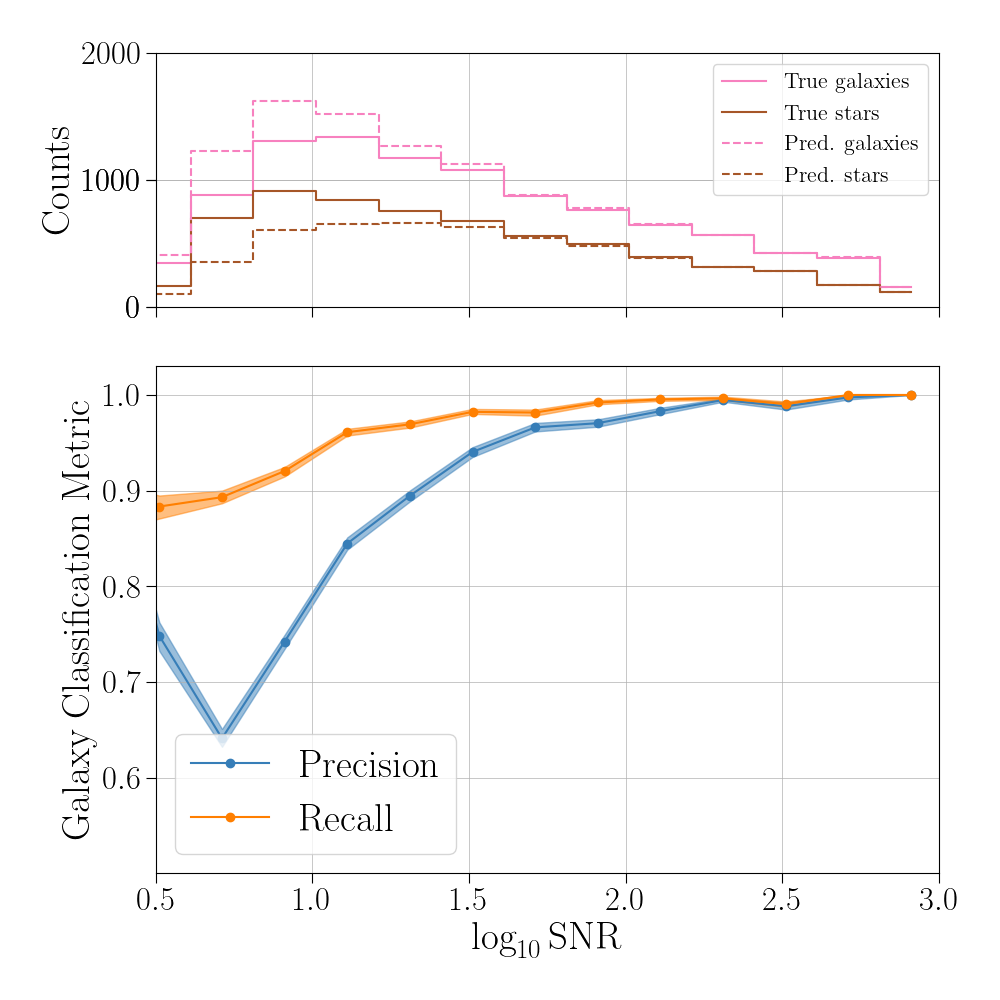
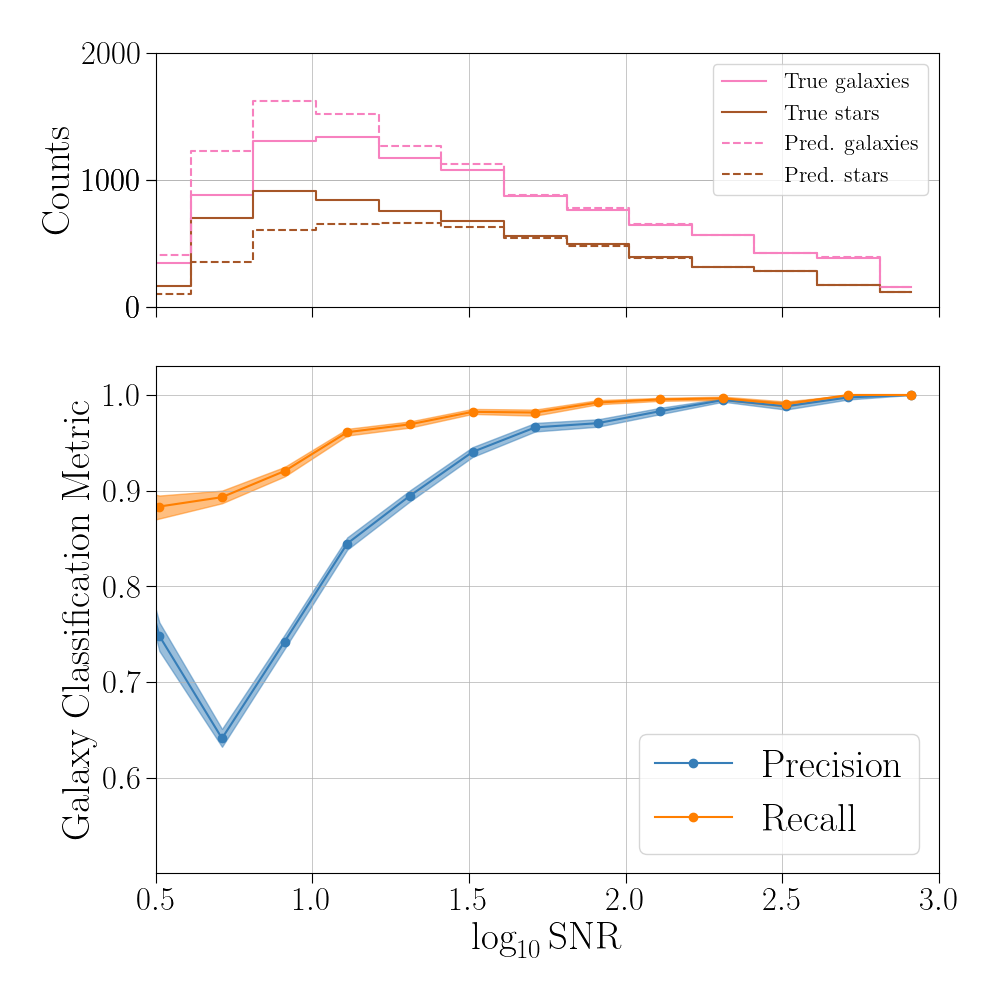
update legend

diff --git a/bliss/plotting.py b/bliss/plotting.py
@@ -52,6 +52,7 @@ def set_rc_params(
     major_tick_width=0.8,
     minor_tick_width=0.6,
     lines_marker_size=8,
+    legend_loc="best",
 ):
     # named size options: 'xx-small', 'x-small', 'small', 'medium', 'large', 'x-large', 'xx-large'.
     rc_params = {
@@ -82,6 +83,7 @@ def set_rc_params(
         "lines.markersize": lines_marker_size,
         # legend
         "legend.fontsize": legend_fontsize,
+        "legend.loc": legend_loc,
         # colors
         "axes.prop_cycle": mpl.cycler(color=CB_color_cycle),
         # images

diff --git a/case_studies/galsim_galaxies/get_figures.py b/case_studies/galsim_galaxies/get_figures.py
@@ -114,7 +114,7 @@ def _make_pr_figure(
     ax2.plot(bins, recall, "-o", color=c2, label=r"\rm Recall", markersize=6)
     ax2.fill_between(bins, recall1, recall2, color=c2, alpha=0.5)
 
-    ax2.legend(loc="lower left")
+    ax2.legend()
     ax2.set_xlabel(xlabel)
     ax2.set_ylabel(rf"\rm {metric_type} Metric")
     ax2.set_yticks(yticks)
